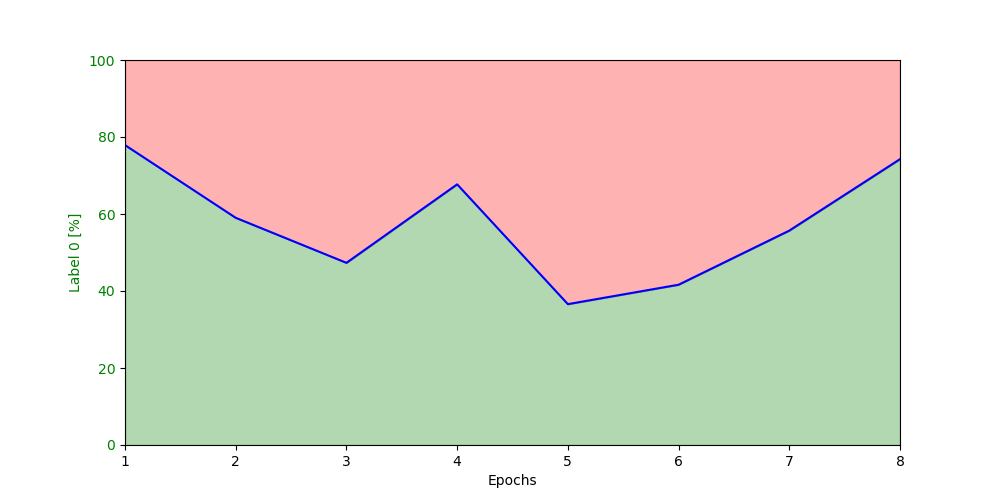
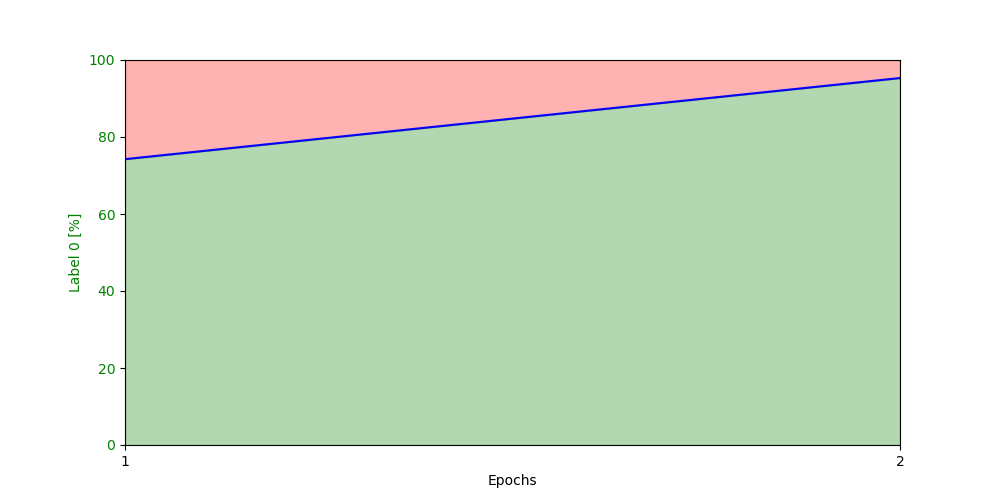
ADDED first look with my data

Changed region(s): [[0.124, 0.15, 0.899, 0.63], [0.651, 0.9, 0.682, 0.93], [0.093, 0.12, 0.124, 0.15]]

diff --git a/RESULTS.md b/RESULTS.md
@@ -103,6 +103,12 @@
 - No beatiful clusters here. I still don't know how Peptide Bert did their clustering. i tried a lot...
   - [ ] Wait for Email with response from PeptideBERT Authors
 
+### PeptideBert with my Data and optimizations
+![my_data](./pictures/my_data.png)
+- First look on algorithm with my pipeline and my data
+  - I could use some more datapoints. But first results looking good so far
+  - Accuracy does not look that good so far, but could be number of eval points
+  - BUT! The label prediction looks much healthier than with the original data
 
 ### Further analysis
 - [ ] Implement their fisher test
